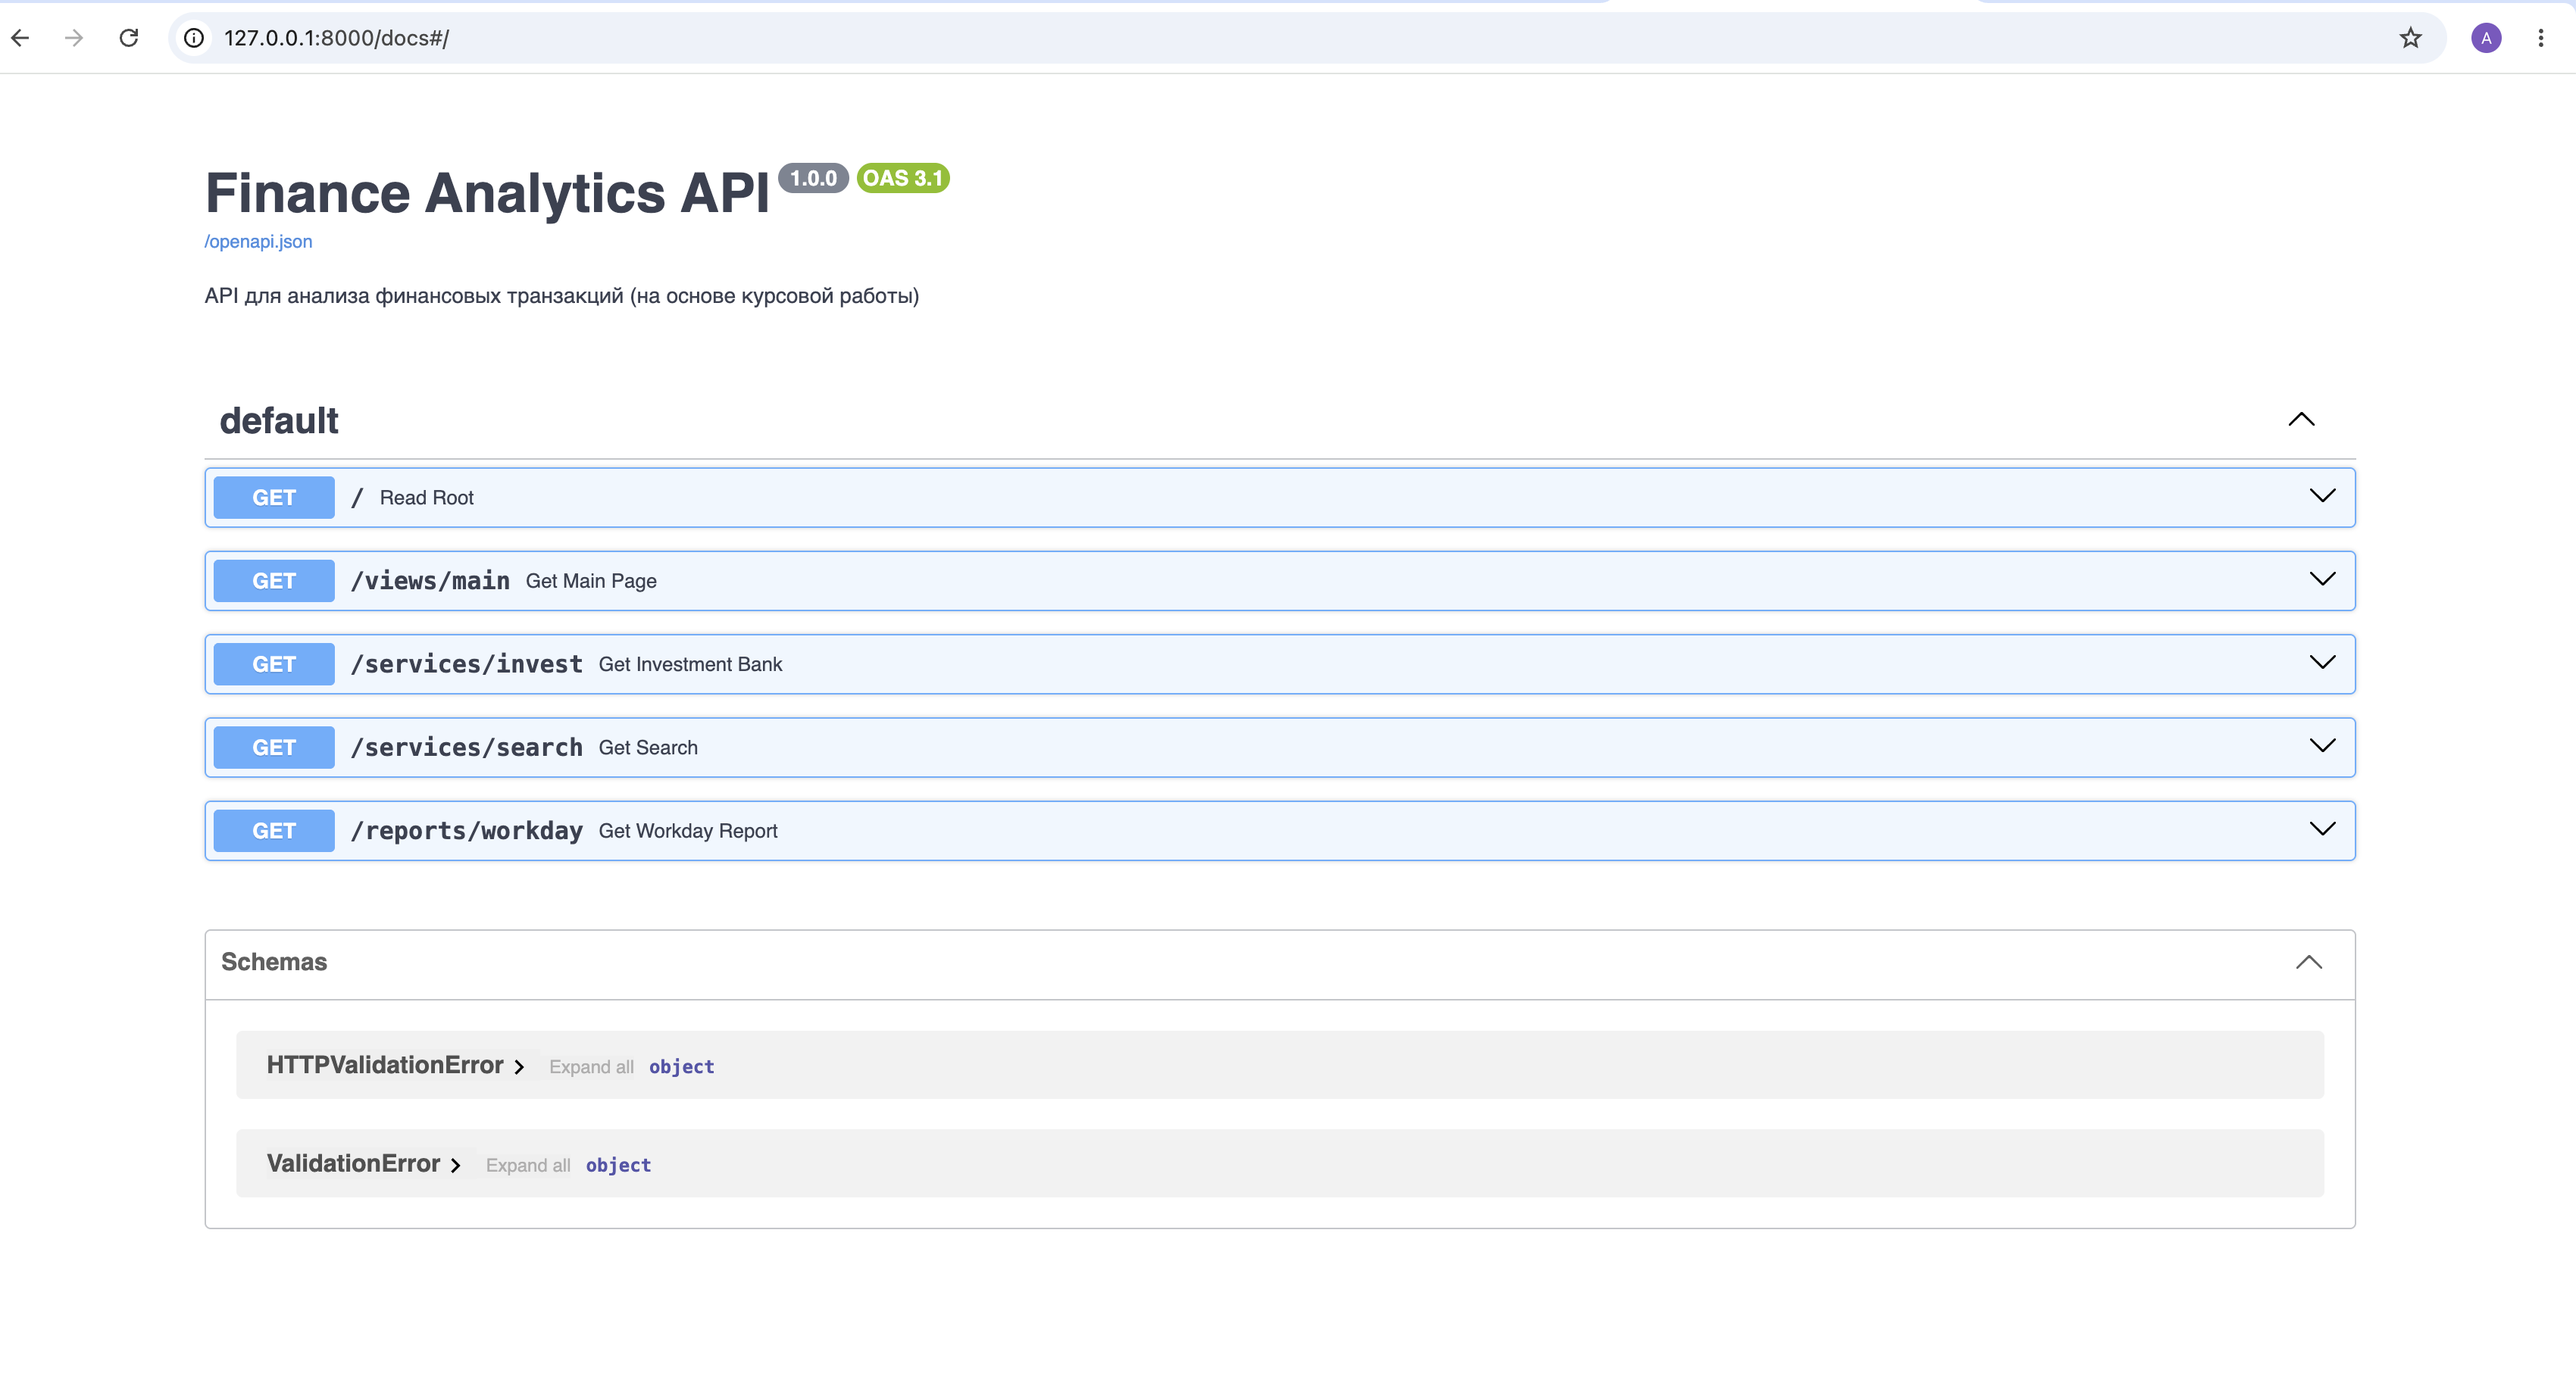
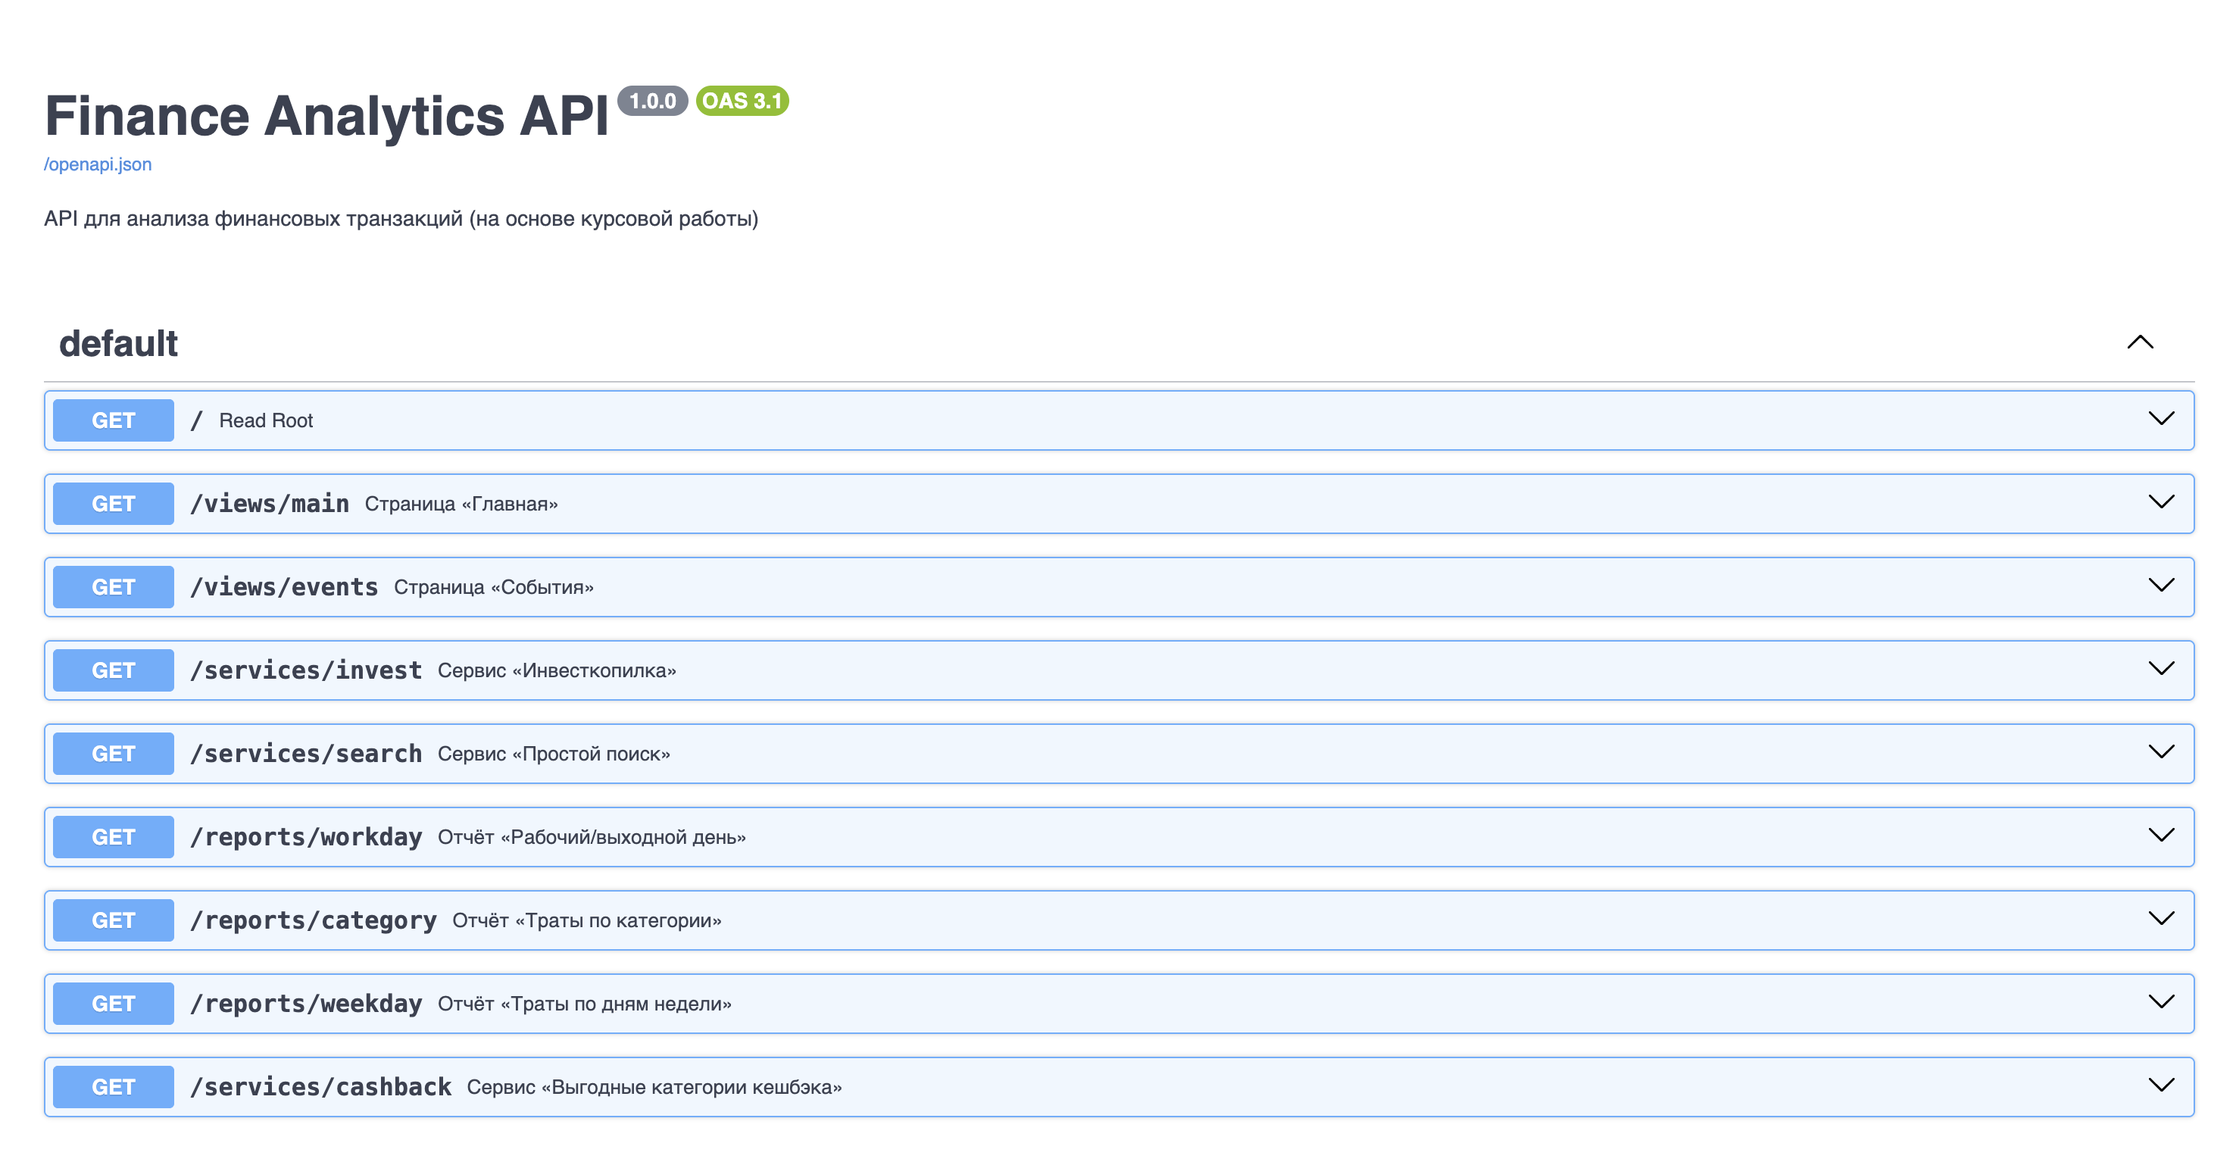
docs: update README with new endpoints and screenshot

diff --git a/src/reports.py b/src/reports.py
@@ -98,3 +98,79 @@ def spending_by_workday(transactions: pd.DataFrame, date: Optional[str] = None) 
     result_df["Средние траты"] = result_df["Средние траты"].round(0).astype(int)
 
     return result_df
+
+
+@report_to_file
+def spending_by_category(transactions: pd.DataFrame, category: str, date: Optional[str] = None) -> pd.DataFrame:
+    """Возвращает траты по заданной категории за последние три месяца от переданной даты."""
+    logger.info(f"Параметры spending_by_category: категория={category}, дата={date if date else 'текущая'}")
+
+    if transactions.empty:
+        return pd.DataFrame()
+
+    if date:
+        end_date = pd.to_datetime(date)
+    else:
+        end_date = pd.to_datetime(datetime.now())
+
+    start_date = end_date - pd.DateOffset(months=3)
+
+    df = transactions.copy()
+    df["Дата операции"] = pd.to_datetime(df["Дата операции"], errors="coerce")
+
+    filtered_df = df[
+        (df["Дата операции"] >= start_date) &
+        (df["Дата операции"] <= end_date) &
+        (df["Категория"] == category) &
+        (df["Сумма платежа"] < 0)
+        ].copy()
+
+    if filtered_df.empty:
+        return pd.DataFrame(columns=["Дата операции", "Сумма платежа", "Категория"])
+
+    filtered_df["Сумма платежа"] = filtered_df["Сумма платежа"].abs()
+
+    return filtered_df[["Дата операции", "Сумма платежа", "Категория"]]
+
+
+@report_to_file
+def spending_by_weekday(transactions: pd.DataFrame, date: Optional[str] = None) -> pd.DataFrame:
+    """Возвращает средние траты в каждый из дней недели за последние три месяца."""
+    if transactions.empty:
+        return pd.DataFrame()
+
+    if date:
+        end_date = pd.to_datetime(date)
+    else:
+        end_date = pd.to_datetime(datetime.now())
+
+    start_date = end_date - pd.DateOffset(months=3)
+
+    df = transactions.copy()
+    df["Дата операции"] = pd.to_datetime(df["Дата операции"], errors="coerce")
+
+    filtered_df = df[
+        (df["Дата операции"] >= start_date) &
+        (df["Дата операции"] <= end_date) &
+        (df["Сумма платежа"] < 0)
+        ].copy()
+
+    if filtered_df.empty:
+        return pd.DataFrame(columns=["День недели", "Средние траты"])
+
+    filtered_df["Сумма платежа"] = filtered_df["Сумма платежа"].abs()
+
+    # 0 - Понедельник, 6 - Воскресенье
+    days_map = {0: "Понедельник", 1: "Вторник", 2: "Среда", 3: "Четверг", 4: "Пятница", 5: "Суббота", 6: "Воскресенье"}
+    filtered_df["День недели"] = filtered_df["Дата операции"].dt.weekday.map(days_map)
+
+    result_df = filtered_df.groupby("День недели", as_index=False)[["Сумма платежа"]].mean()
+    result_df.columns = ["День недели", "Средние траты"]
+    result_df["Средние траты"] = result_df["Средние траты"].round(0).astype(int)
+
+    # Сортируем по порядку дней недели
+    order = ["Понедельник", "Вторник", "Среда", "Четверг", "Пятница", "Суббота", "Воскресенье"]
+    result_df["День недели"] = pd.Categorical(result_df["День недели"], categories=order, ordered=True)
+    result_df = result_df.sort_values("День недели")
+
+    return result_df

diff --git a/src/services.py b/src/services.py
@@ -91,3 +91,30 @@ def simple_search_transactions(transactions: list[dict], query: str) -> str:
             )
 
     return json.dumps(matched_transactions, ensure_ascii=False, indent=2)
+
+
+def cashback_categories(transactions: list[dict], year: int, month: int) -> dict:
+    """Анализирует, сколько на каждой категории можно заработать кешбэка (1%) в указанном месяце."""
+    if not transactions:
+        return {}
+
+    result = {}
+    for tx in transactions:
+        tx_date_raw = tx.get("Дата операции")
+        if not tx_date_raw or pd.isna(tx_date_raw):
+            continue
+
+        try:
+            tx_date = pd.to_datetime(tx_date_raw)
+            if tx_date.year == year and tx_date.month == month:
+                amount = tx.get("Сумма платежа")
+                if isinstance(amount, (int, float)) and amount < 0:
+                    category = tx.get("Категория", "Остальное")
+                    # Считаем 1% от трат как потенциальный кешбэк
+                    cashback = abs(amount) * 0.01
+                    result[category] = result.get(category, 0.0) + cashback
+        except (ValueError, TypeError):
+            continue
+
+    # Округляем до 2 знаков
+    return {k: round(v, 2) for k, v in sorted(result.items(), key=lambda item: item[1], reverse=True)}

diff --git a/README.md b/README.md
@@ -89,10 +89,14 @@ poetry run uvicorn src.api:app --reload
 
 | Метод | Эндпоинт | Параметры | Описание |
 | :--- | :--- | :--- | :--- |
-| GET | `/views/main` | `dt` (YYYY-MM-DD HH:MM:SS) | Главная страница: приветствие, карты, топ-5 транзакций, валюты, акции |
+| GET | `/views/main` | `dt` (YYYY-MM-DD HH:MM:SS) | Главная страница: приветствие, карты, топ-5, валюты, акции |
+| GET | `/views/events` | `dt` (YYYY-MM-DD HH:MM:SS), `range` (W/M/Y/ALL) | Страница «События»: расходы и поступления по категориям |
 | GET | `/services/invest` | `month` (YYYY-MM), `limit` (10/50/100) | Сервис «Инвесткопилка» |
 | GET | `/services/search` | `query` (строка) | Поиск по описанию и категории |
-| GET | `/reports/workday` | `date` (DD.MM.YYYY, опционально) | Средние траты в рабочий/выходной день |
+| GET | `/services/cashback` | `year` (число), `month` (1-12) | Сервис «Выгодные категории кешбэка» |
+| GET | `/reports/workday` | `date` (YYYY-MM-DD, опционально) | Средние траты в рабочий/выходной день |
+| GET | `/reports/category` | `category` (строка), `date` (YYYY-MM-DD, опционально) | Траты по категории за 3 месяца |
+| GET | `/reports/weekday` | `date` (YYYY-MM-DD, опционально) | Средние траты по дням недели |
 
 ### Скриншот документации (Swagger UI):
 ![Swagger UI](docs/screenshot_swagger.png)
